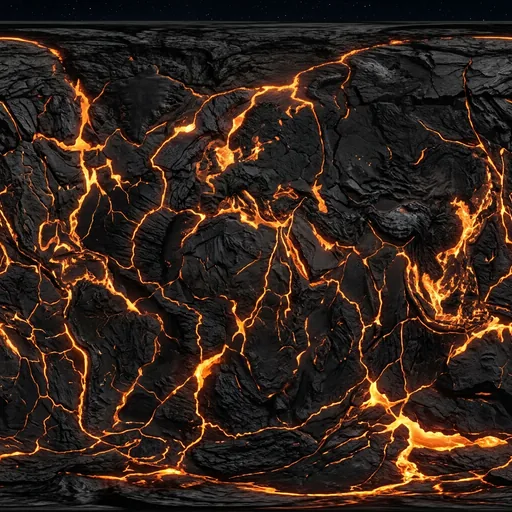
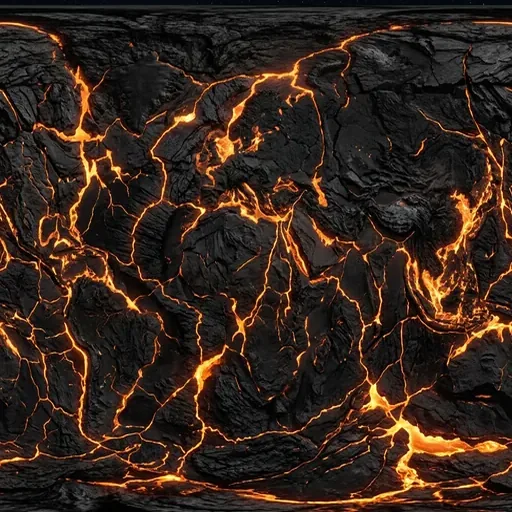
refactor: address review feedback - texture colorSpace/wrapS, isolated Suspense, tuned materials, and UI stacking

diff --git a/components/galaxy/GalaxyScene.tsx b/components/galaxy/GalaxyScene.tsx
@@ -376,7 +376,15 @@ function PlanetNode({
           map={textureMap}
           color={
             isBlindSun
-              ? "#1e293b"
+              ? "#94a3b8"
+              : isMarrow
+              ? "#fda4af"
+              : isKiln
+              ? "#fdba74"
+              : isChoir
+              ? "#7dd3fc"
+              : isCinder
+              ? "#f472b6"
               : isBlackInterval
               ? "#f8fafc"
               : planet.color
@@ -385,9 +393,9 @@ function PlanetNode({
             isOrchard
               ? 0.05
               : isKiln
-              ? 0.85
+              ? 0.75
               : isBlindSun
-              ? 0.95
+              ? 0.92
               : isBlackInterval
               ? 0.1
               : 0.35
@@ -398,27 +406,31 @@ function PlanetNode({
               : isNeedle || isLedger || isHelix
               ? 0.85
               : isKiln || isMarrow
-              ? 0.2
+              ? 0.25
               : isBlackInterval
               ? 0.9
-              : 0.5
+              : 0.45
           }
           emissive={
             isBlindSun
-              ? "#0f172a"
+              ? "#b45309"
               : isBlackInterval
               ? "#ffffff"
+              : isKiln
+              ? "#ea580c"
               : planet.color
           }
           emissiveIntensity={
             hovered || isSelected
               ? 0.9
               : isKiln
-              ? 0.6
+              ? 0.7
+              : isBlindSun
+              ? 0.4
               : isBlackInterval
               ? 0.8
               : isMarrow
-              ? 0.5
+              ? 0.45
               : 0.3
           }
           emissiveMap={isKiln && textures ? textures.lavaCrust : undefined}
@@ -553,25 +565,33 @@ function CameraController({
   return null;
 }
 
-// Galaxy Elements with Preloaded Astral Noir Textures
-function GalaxyElements({
+// Textured Planets Group with Astral Noir Textures & Isolated Suspense
+function TexturedPlanets({
   visiblePlanets,
   selectedPlanet,
   onSelectPlanet,
-  showInferenceLines,
-  controlsRef,
 }: {
   visiblePlanets: PlanetDef[];
   selectedPlanet: PlanetDef | null;
   onSelectPlanet: (planet: PlanetDef) => void;
-  showInferenceLines: boolean;
-  controlsRef: React.MutableRefObject<any>;
 }) {
   const [gasGiant, lavaCrust, iceRock] = useTexture([
     "/planet-gas-giant.webp",
     "/planet-lava-crust.webp",
     "/planet-ice-rock.webp",
   ]);
+
+  // Configure color space & wrapping for smooth sphere sampling and accurate sRGB gamma
+  useEffect(() => {
+    [gasGiant, lavaCrust, iceRock].forEach((tex) => {
+      if (tex) {
+        tex.colorSpace = THREE.SRGBColorSpace;
+        tex.wrapS = THREE.RepeatWrapping;
+        tex.wrapT = THREE.ClampToEdgeWrapping;
+        tex.needsUpdate = true;
+      }
+    });
+  }, [gasGiant, lavaCrust, iceRock]);
 
   const textures = useMemo<TexturesSet>(
     () => ({
@@ -584,10 +604,6 @@ function GalaxyElements({
 
   return (
     <>
-      <CosmicDust />
-      <SpurCurve visiblePlanets={visiblePlanets} />
-      {showInferenceLines && <InferenceLines visiblePlanets={visiblePlanets} />}
-
       {visiblePlanets.map((planet) => (
         <PlanetNode
           key={planet.id}
@@ -597,11 +613,6 @@ function GalaxyElements({
           textures={textures}
         />
       ))}
-
-      <CameraController
-        targetPlanet={selectedPlanet}
-        controlsRef={controlsRef}
-      />
     </>
   );
 }
@@ -648,12 +659,15 @@ export default function GalaxyScene({
         <pointLight position={[-120, -60, -120]} intensity={1.2} color="#38bdf8" />
         <pointLight position={[0, -100, 100]} intensity={0.7} color="#f59e0b" />
 
+        {/* Stable Non-Suspended Core 3D Elements */}
+        <CosmicDust />
+        <SpurCurve visiblePlanets={visiblePlanets} />
+        {showInferenceLines && <InferenceLines visiblePlanets={visiblePlanets} />}
+
+        {/* Isolated Texture Loading Suspense Boundary */}
         <Suspense
           fallback={
             <>
-              <CosmicDust />
-              <SpurCurve visiblePlanets={visiblePlanets} />
-              {showInferenceLines && <InferenceLines visiblePlanets={visiblePlanets} />}
               {visiblePlanets.map((planet) => (
                 <PlanetNode
                   key={planet.id}
@@ -662,22 +676,20 @@ export default function GalaxyScene({
                   onSelect={onSelectPlanet}
                 />
               ))}
-              <CameraController
-                targetPlanet={selectedPlanet}
-                controlsRef={controlsRef}
-              />
             </>
           }
         >
-          <GalaxyElements
+          <TexturedPlanets
             visiblePlanets={visiblePlanets}
             selectedPlanet={selectedPlanet}
             onSelectPlanet={onSelectPlanet}
-            showInferenceLines={showInferenceLines}
-            controlsRef={controlsRef}
           />
         </Suspense>
 
+        <CameraController
+          targetPlanet={selectedPlanet}
+          controlsRef={controlsRef}
+        />
         <OrbitControls
           ref={controlsRef}
           enableDamping

diff --git a/components/ui/ShipInteriorView.tsx b/components/ui/ShipInteriorView.tsx
@@ -515,7 +515,7 @@ export default function ShipInteriorView({
         </div>
       )}
 
-      <div className="text-center text-xs font-mono text-holo-muted">
+      <div className="relative z-10 text-center text-xs font-mono text-holo-muted">
         VESSEL SYSTEMS: ALL ONLINE // USE TOP HUD OR STATIONS TO JUMP
       </div>
     </div>
